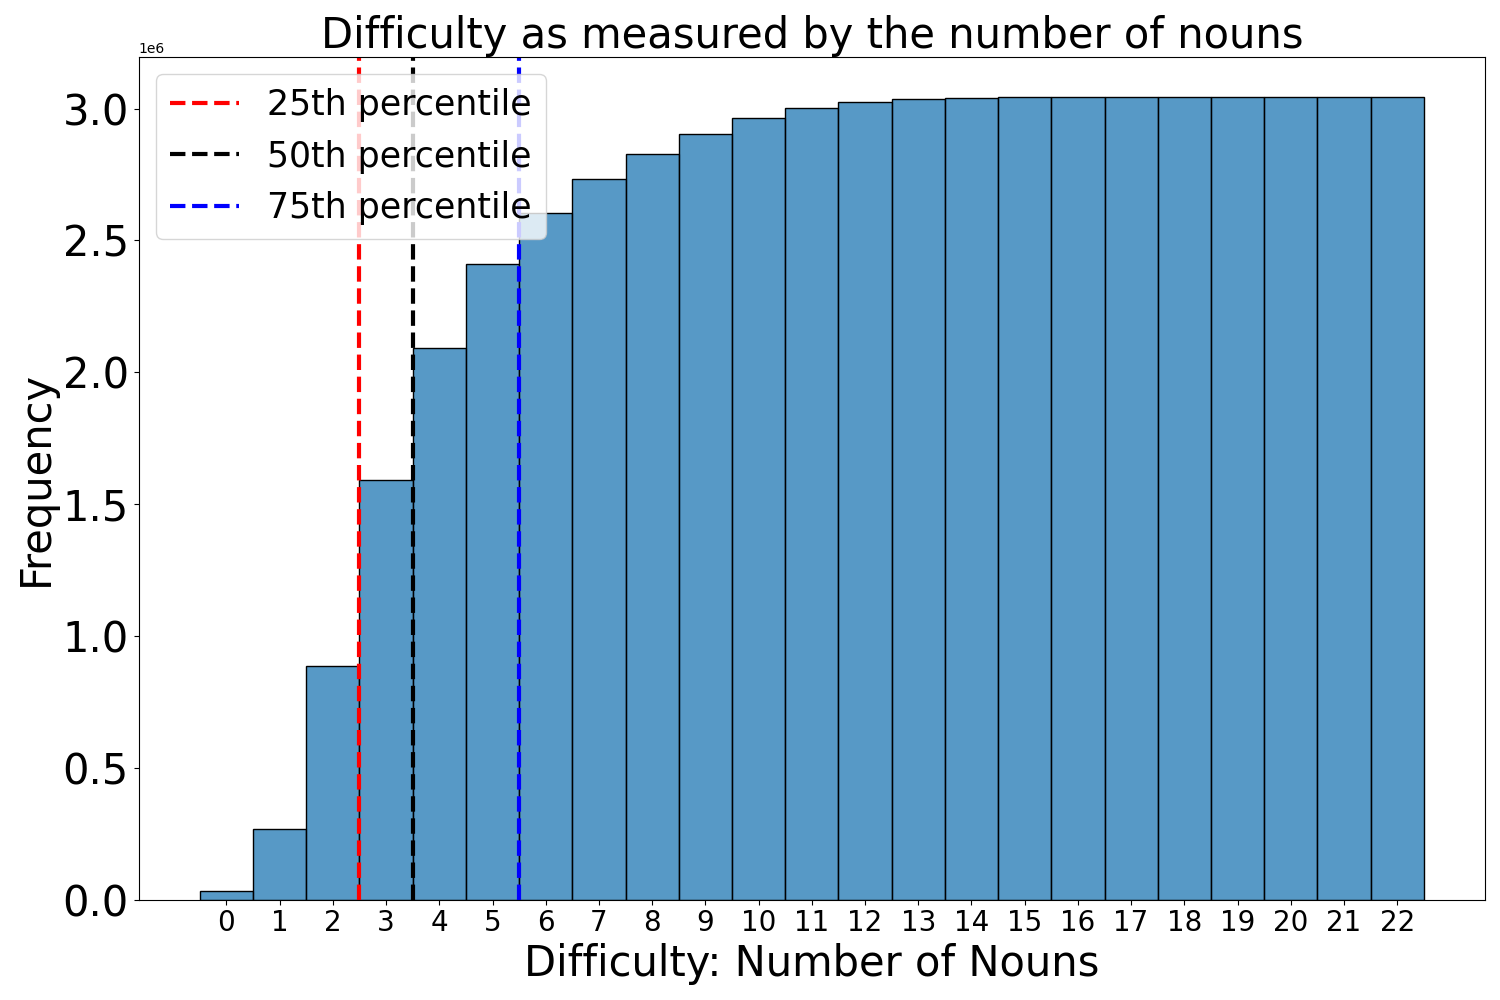
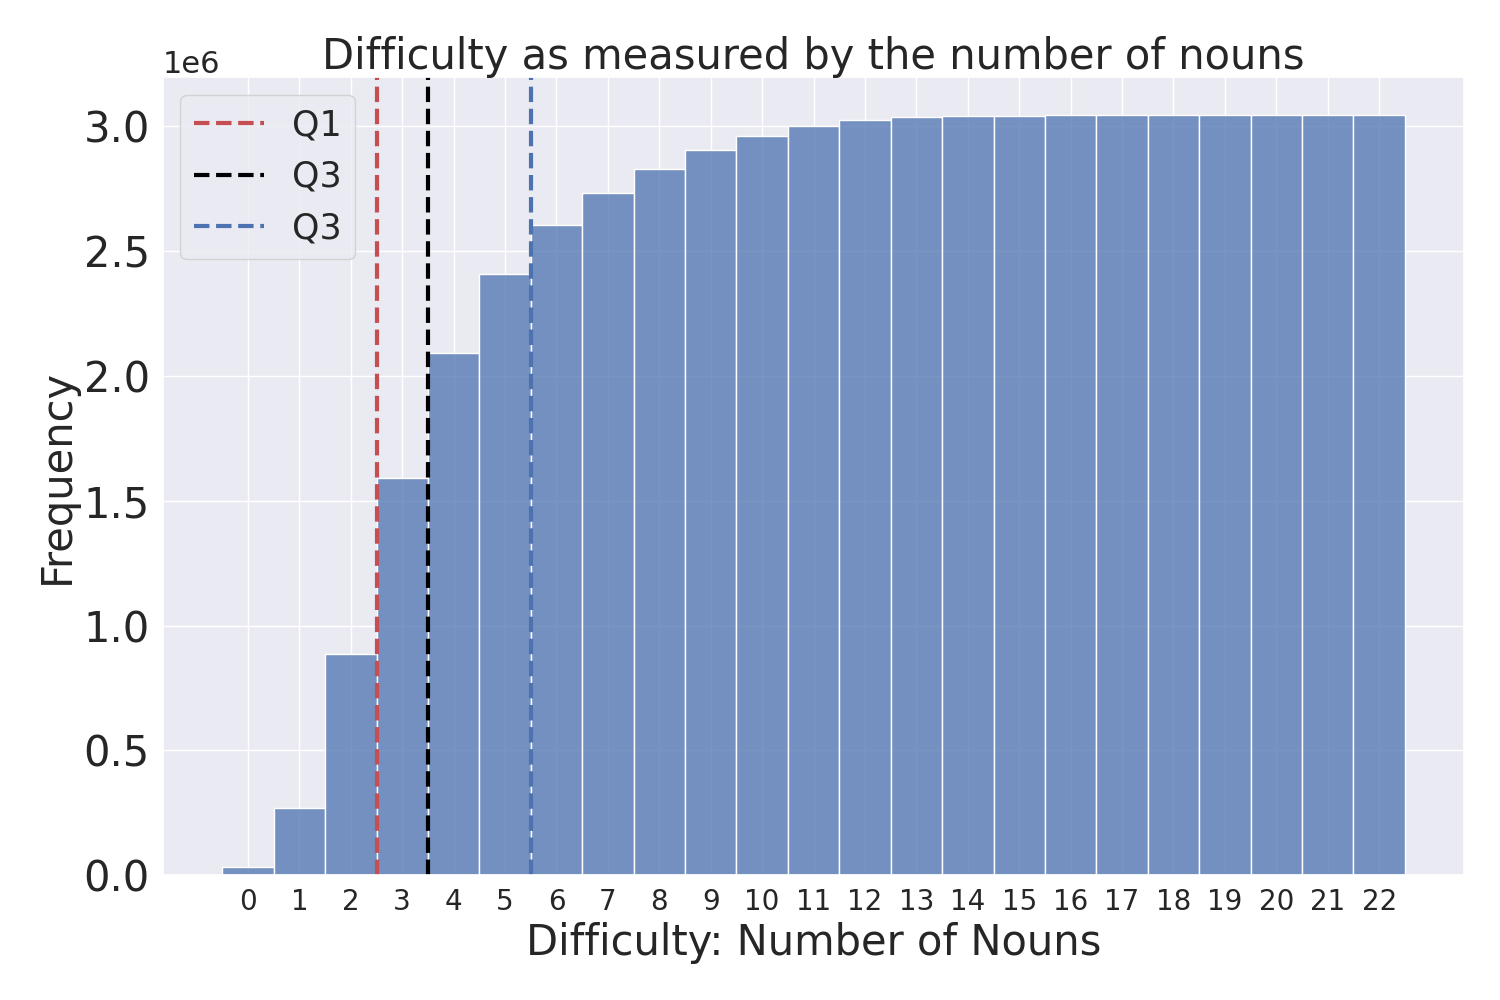
Replaced the difficulty for the duplicate images in mscoco with the max difficulty

diff --git a/create_quartiled_datasets.py b/create_quartiled_datasets.py
@@ -6,21 +6,21 @@ This script will create the quartiled datasets for the curriculum learning train
 import pandas as pd
 from tqdm import tqdm
 
-df = pd.read_csv("/home/rsaha/projects/babylm/src/datasets/multimodal_train/all_multimodal_all_concaps_with_pos_tags_with_noun_counts.tsv", sep="\t")
+df = pd.read_csv("/home/rsaha/projects/babylm/src/datasets/multimodal_train/all_multimodal_all_concaps_with_pos_tags_with_noun_counts_replaced.tsv", sep="\t")
 
 # Now for each seed, create a separate dataset for each quartile.
 
 # The dataframes should contain the difficulty values for each seed that are 'LESS THAN' the following values.
 # The values are same of reach seed.
-predefined_quartiles_difficulty_values = [3, 4, 6]
+predefined_quartiles_difficulty_values = [3, 4, 6]  # These values are obtained from the histogram of the noun_counts_seed_0_replaced column.
 
 for seed in tqdm(range(0, 3)):
-    df_quartile_1 = df[df[f'noun_counts_seed_{seed}'] < predefined_quartiles_difficulty_values[0]]
-    df_quartile_2 = df[df[f'noun_counts_seed_{seed}'] < predefined_quartiles_difficulty_values[1]]
-    df_quartile_3 = df[df[f'noun_counts_seed_{seed}'] < predefined_quartiles_difficulty_values[2]]
+    df_quartile_1 = df[df[f'noun_counts_seed_{seed}_replaced'] < predefined_quartiles_difficulty_values[0]]
+    df_quartile_2 = df[df[f'noun_counts_seed_{seed}_replaced'] < predefined_quartiles_difficulty_values[1]]
+    df_quartile_3 = df[df[f'noun_counts_seed_{seed}_replaced'] < predefined_quartiles_difficulty_values[2]]
     # No need to create the fourth quartile, because it will contain all the rows, which is df itself.
     # Now save the dataframes to tsv files.
-    df_quartile_1.to_csv(f"/home/rsaha/projects/babylm/src/datasets/multimodal_train/curriculum_tsvs/quartile_1_seed_{seed}.tsv", sep="\t", index=False)
-    df_quartile_2.to_csv(f"/home/rsaha/projects/babylm/src/datasets/multimodal_train/curriculum_tsvs/quartile_2_seed_{seed}.tsv", sep="\t", index=False)
-    df_quartile_3.to_csv(f"/home/rsaha/projects/babylm/src/datasets/multimodal_train/curriculum_tsvs/quartile_3_seed_{seed}.tsv", sep="\t", index=False)
+    df_quartile_1.to_csv(f"/home/rsaha/projects/babylm/src/datasets/multimodal_train/curriculum_tsvs_replaced/quartile_1_seed_{seed}_replaced.tsv", sep="\t", index=False)
+    df_quartile_2.to_csv(f"/home/rsaha/projects/babylm/src/datasets/multimodal_train/curriculum_tsvs_replaced/quartile_2_seed_{seed}_replaced.tsv", sep="\t", index=False)
+    df_quartile_3.to_csv(f"/home/rsaha/projects/babylm/src/datasets/multimodal_train/curriculum_tsvs_replaced/quartile_3_seed_{seed}_replaced.tsv", sep="\t", index=False)
     

diff --git a/plots/get_difficulty_values_from_tagger.py b/plots/get_difficulty_values_from_tagger.py
@@ -229,14 +229,16 @@ import pandas as pd
 import matplotlib.pyplot as plt
 import seaborn as sns   
 import numpy as np
-df = pd.read_csv("/home/rsaha/projects/babylm/src/datasets/multimodal_train/all_multimodal_all_concaps_with_pos_tags_with_noun_counts.tsv", sep="\t")
+from tqdm import tqdm
+df = pd.read_csv("/home/rsaha/projects/babylm/src/datasets/multimodal_train/all_multimodal_all_concaps_with_pos_tags_with_noun_counts_replaced.tsv", sep="\t")
+
 
 seed = 2
 fontsize = 30
 plt.clf()
 fig, ax = plt.subplots(figsize=(15, 10))
 # plt.hist(noun_counts, bins=20)
-sns.histplot(ax=ax, data=df, x=f"noun_counts_seed_{seed}", discrete=True, cumulative=True)
+sns.histplot(ax=ax, data=df, x=f"noun_counts_seed_{seed}_replaced", discrete=True, cumulative=True)
 plt.xlabel("Difficulty: Number of Nouns", fontsize=fontsize)
 plt.ylabel("Frequency", fontsize=fontsize)
 
@@ -255,19 +257,19 @@ noun_counts = df[f"noun_counts_seed_{seed}"].tolist()
 
 
 # Draw a vertical line for the 25th, 50th, and 75th percentiles. There is an offset of 0.5 so that it is easier to comprehend.
-plt.axvline(x=np.percentile(noun_counts, 25)+0.5, color='r', linestyle='--', label="25th percentile", linewidth=3)
-plt.axvline(x=np.percentile(noun_counts, 50)+0.5, color='black', linestyle='--', label="50th percentile", linewidth=3)
-plt.axvline(x=np.percentile(noun_counts, 75)+0.5, color='b', linestyle='--', label="75th percentile", linewidth=3)
+plt.axvline(x=np.percentile(noun_counts, 25)+0.5, color='r', linestyle='--', label="Q1", linewidth=3)
+plt.axvline(x=np.percentile(noun_counts, 50)+0.5, color='black', linestyle='--', label="Q3", linewidth=3)
+plt.axvline(x=np.percentile(noun_counts, 75)+0.5, color='b', linestyle='--', label="Q3", linewidth=3)
 
 
 # Add legends for the vertical lines.
 plt.legend(fontsize=fontsize-5)
 
-
+plt.ticklabel_format(style='sci', axis='y', useOffset=False)
 # Add xticks to the histogram.
 plt.xticks(range(0, max(noun_counts) + 1, 1), fontsize=20)
 plt.yticks(fontsize=fontsize)
 
 plt.title("Difficulty as measured by the number of nouns", fontsize=fontsize)
 plt.tight_layout()
-plt.savefig(f"/home/rsaha/projects/babylm/difficulty_histogram_nouns_captions_only_bert_pos_tagger_cumulative_seed_{seed}.png")
+plt.savefig(f"/home/rsaha/projects/babylm/difficulty_histogram_nouns_captions_only_bert_pos_tagger_cumulative_seed_{seed}_replaced.png")

diff --git a/assign_max_difficulty_to_mscoco_duplicates.py b/assign_max_difficulty_to_mscoco_duplicates.py
@@ -1,0 +1,50 @@
+import pandas as pd
+import matplotlib.pyplot as plt
+import seaborn as sns   
+import numpy as np
+from tqdm import tqdm
+import sys
+df = pd.read_csv("/home/rsaha/projects/babylm/src/datasets/multimodal_train/all_multimodal_all_concaps_with_pos_tags_with_noun_counts.tsv", sep="\t")
+
+# Retrieve all the image_urls from df where source_dataset==mscoco.
+df_mscoco = df[df["source_dataset"]=="mscoco"]
+
+# In df_mscoco, there are some duplicate urls. For each of these duplicate urls, get the noun_counts for seed 0, and then assign the maximum noun_count to the duplicate urls.
+# This is because the noun_counts for the same image_url should be the same.
+
+# Get the list of urls that are repeated in df_mscoco.
+repeated_urls = df_mscoco[df_mscoco.duplicated(subset=['image_url'], keep=False)]['image_url'].tolist()
+
+
+seed = int(sys.argv[1])
+
+for image_url in tqdm(repeated_urls):
+    noun_counts = df[df["image_url"]==image_url][f"noun_counts_seed_{seed}"].tolist()
+    max_noun_count = max(noun_counts)
+    df.loc[df["image_url"]==image_url, f"noun_counts_seed_{seed}"] = max_noun_count
+
+# Save the df to a new .tsv file.
+df.to_csv(f"/home/rsaha/projects/babylm/src/datasets/multimodal_train/all_multimodal_all_concaps_with_pos_tags_with_noun_counts_assigned_max_seed_{seed}.tsv", sep="\t", index=False)
+
+
+
+
+# Now, load the df for each seed and then replace the column
+"""
+NOTE: Do this after the running the previous block.
+"""
+import pandas as pd
+import matplotlib.pyplot as plt
+import seaborn as sns   
+import numpy as np
+from tqdm import tqdm
+import sys
+df = pd.read_csv("/home/rsaha/projects/babylm/src/datasets/multimodal_train/all_multimodal_all_concaps_with_pos_tags_with_noun_counts.tsv", sep="\t")
+
+for seed in [0, 1, 2]:
+    print(f"Processing seed {seed}")
+    df_seed = pd.read_csv(f"/home/rsaha/projects/babylm/src/datasets/multimodal_train/all_multimodal_all_concaps_with_pos_tags_with_noun_counts_assigned_max_seed_{seed}.tsv", sep="\t")
+    df[f"noun_counts_seed_{seed}_replaced"] = df_seed[f"noun_counts_seed_{seed}"]
+    
+# Save the df to a new .tsv file.
+df.to_csv(f"/home/rsaha/projects/babylm/src/datasets/multimodal_train/all_multimodal_all_concaps_with_pos_tags_with_noun_counts_replaced.tsv", sep="\t", index=False)    

diff --git a/src/datasets/multimodal_dataset_processor.py b/src/datasets/multimodal_dataset_processor.py
@@ -30,7 +30,7 @@ TSV_URLS = {
 
 CURRICULUM_TSV_URLS = {
     'train': [
-        'src/datasets/multimodal_train/curriculum_tsvs/'
+        'src/datasets/multimodal_train/curriculum_tsvs_replaced/'
     ]
 }
 
@@ -231,13 +231,13 @@ class MultiModalDatasetProcessor(DatasetProcessorParent):
         # Load the datasets for that seed.
         train_datapipe_quartile_1 = multimodal_dataset_pipe_curriculum(split="train", buffer_size=256, 
                                                                         dataset_size=self.dataset_size,
-                                                                        tsv_url=f"src/datasets/multimodal_train/curriculum_tsvs/quartile_1_seed_{seed}.tsv")
+                                                                        tsv_url=f"src/datasets/multimodal_train/curriculum_tsvs_replaced/quartile_1_seed_{seed}_replaced.tsv")
         train_datapipe_quartile_2 = multimodal_dataset_pipe_curriculum(split="train", buffer_size=256,
                                                                         dataset_size=self.dataset_size,
-                                                                        tsv_url=f"src/datasets/multimodal_train/curriculum_tsvs/quartile_2_seed_{seed}.tsv")
+                                                                        tsv_url=f"src/datasets/multimodal_train/curriculum_tsvs_replaced/quartile_2_seed_{seed}_replaced.tsv")
         train_datapipe_quartile_3 = multimodal_dataset_pipe_curriculum(split="train", buffer_size=256,
                                                                         dataset_size=self.dataset_size,
-                                                                        tsv_url=f"src/datasets/multimodal_train/curriculum_tsvs/quartile_3_seed_{seed}.tsv")
+                                                                        tsv_url=f"src/datasets/multimodal_train/curriculum_tsvs_replaced/quartile_3_seed_{seed}_replaced.tsv")
         
         # The fourth quartile dataset contains all the rows.
         train_datapipe_quartile_4 = multimodal_dataset_pipe_curriculum(split="train", buffer_size=256,
